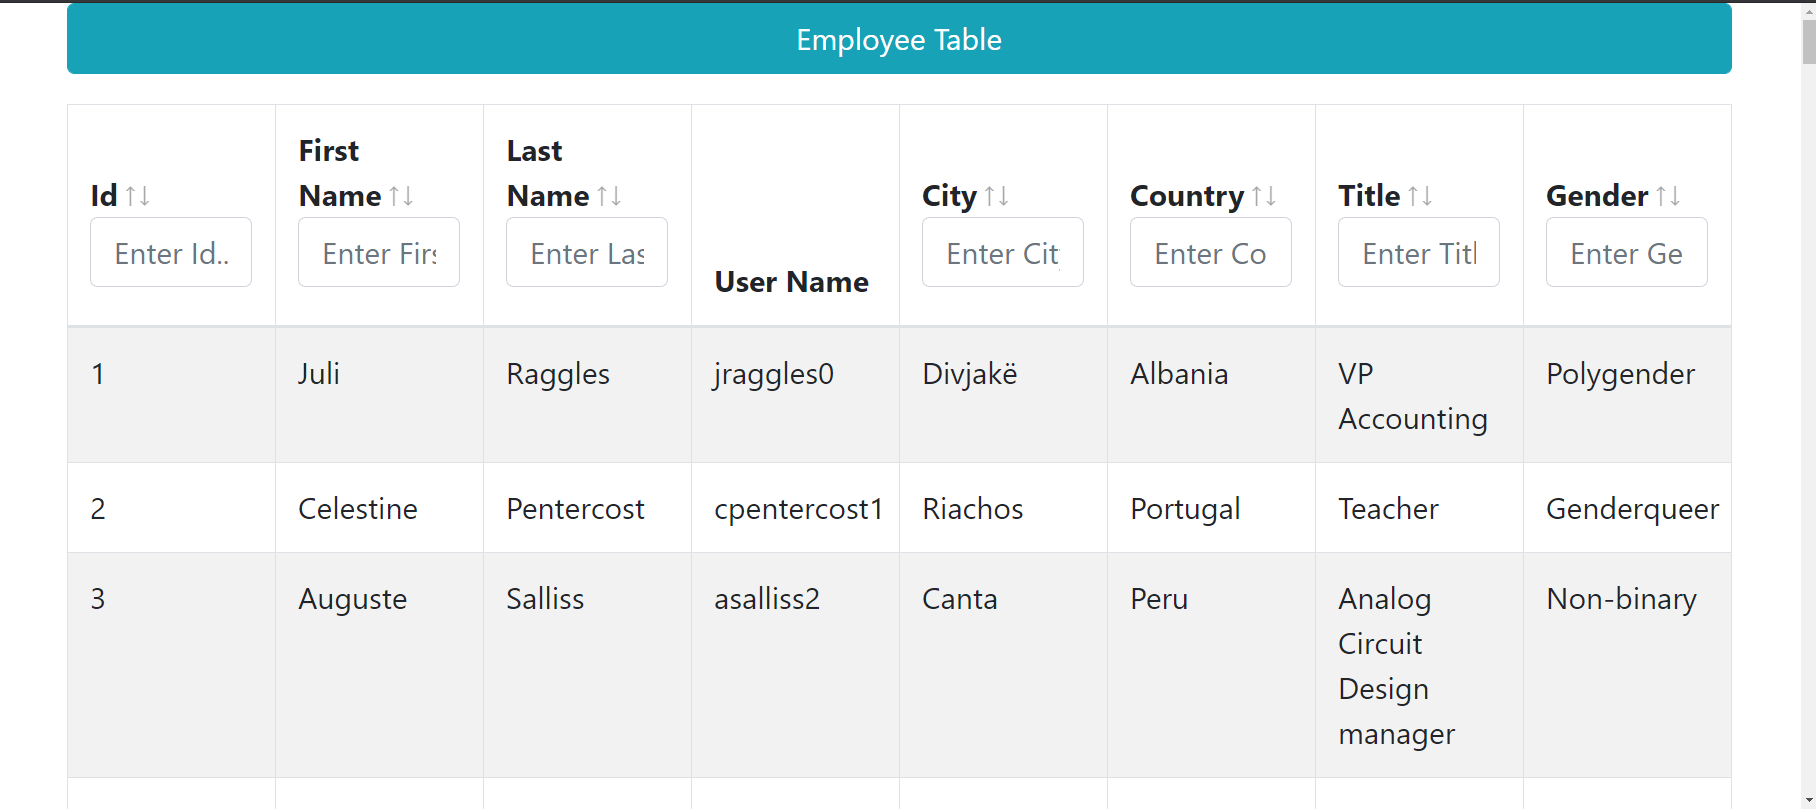
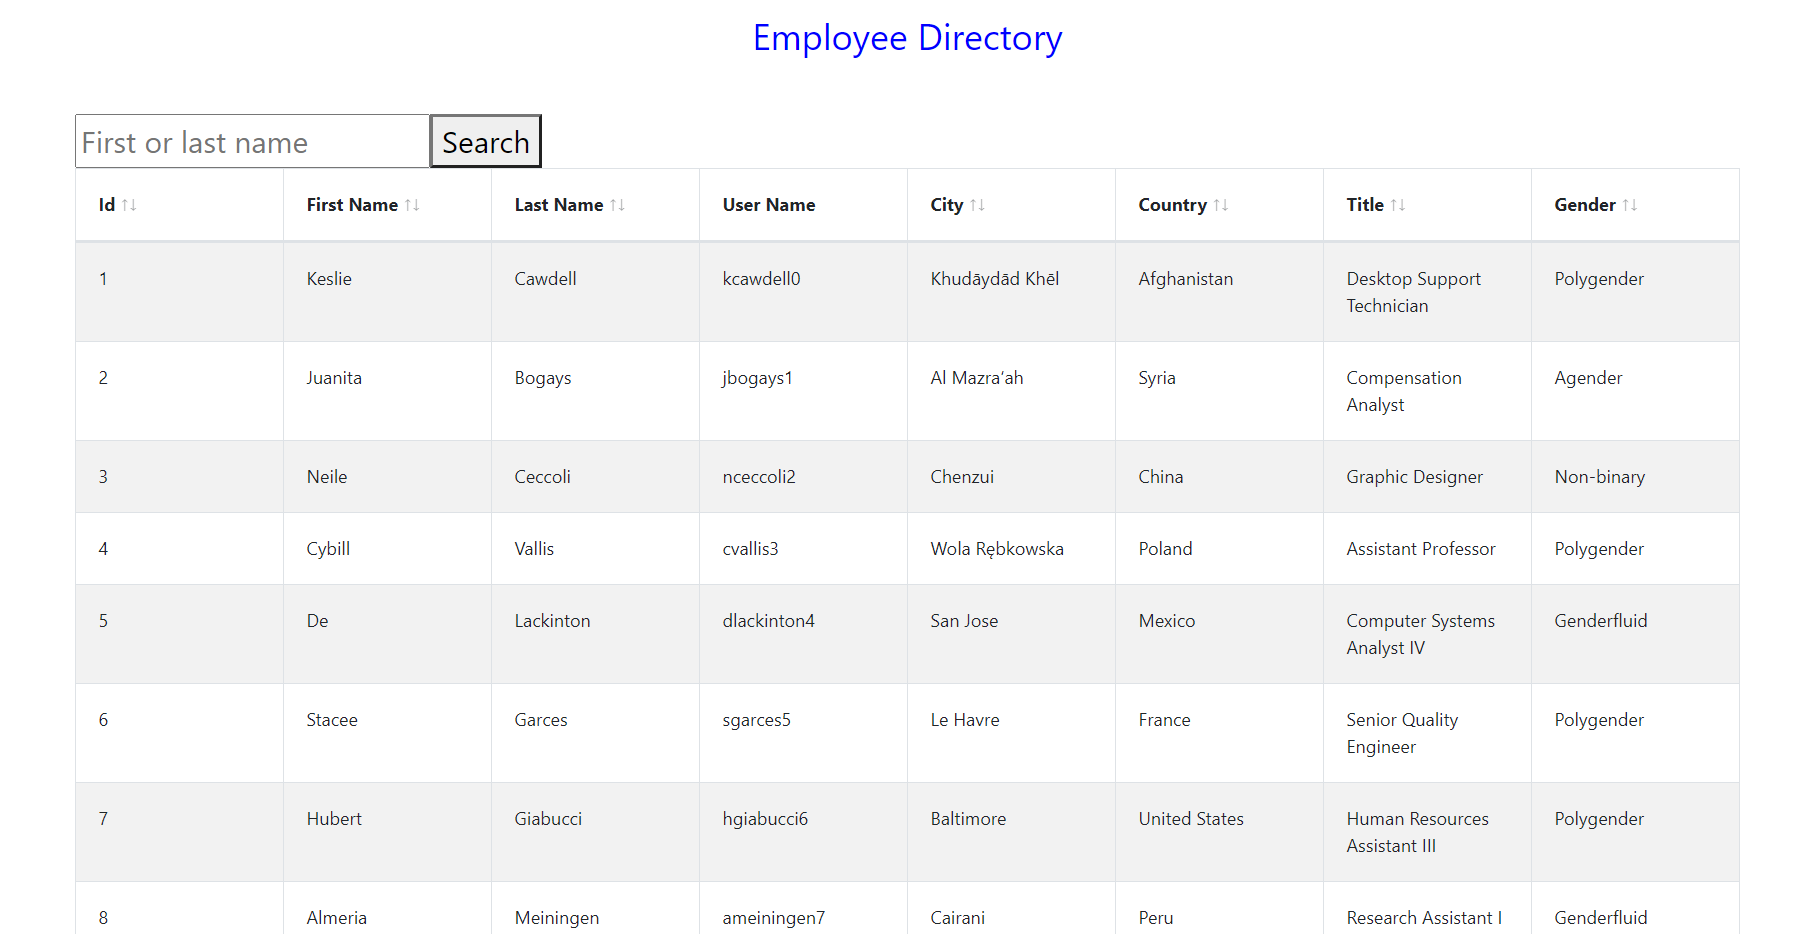
add search

diff --git a/src/components/EmployeeContainer.js b/src/components/EmployeeContainer.js
@@ -1,34 +1,32 @@
 import React, { Component } from "react";
 import BootstrapTable from 'react-bootstrap-table-next';
 import filterFactory, { textFilter } from 'react-bootstrap-table2-filter';
-import axios from "axios";
-import API from "../utils/API";
 //import 'bootstrap/dist/css/bootstrap.min.css';
 import 'react-bootstrap-table-next/dist/react-bootstrap-table2.min.css';
+import "./Employee.css";
+import API from "../utils/API";
 
-export class EmployeeContainer extends Component {
+class EmployeeContainer extends Component {
   state = {
-    getEmployeeData: "",
+    searchName: "",
     employee: [],
+    filteredEmployee: [],
     columns: [ 
       {
         dataField: 'id',
         text: 'Id',
-        filter: textFilter(),
         style: {'white-space' : 'wrap'},
         sort: true
       },
       {
         dataField: 'first_name',
         text: 'First Name',
-        filter: textFilter(),
         style: {'white-space' : 'wrap'},
         sort: true
       },
       {
         dataField: 'last_name',
         text: 'Last Name',
-        filter: textFilter(),
         style: {'white-space' : 'wrap'},
         sort: true
       },
@@ -41,28 +39,24 @@ export class EmployeeContainer extends Component {
       {
         dataField: 'city',
         text: 'City',
-        filter: textFilter(),
         style: {'white-space' : 'wrap'},
         sort: true
       },
       {
         dataField: 'country',
         text: 'Country',
-        filter: textFilter(),
         style: {'white-space' : 'wrap'},
         sort: true
       },
       {
         dataField: 'title',
         text: 'Title',
-        filter: textFilter(),
         style: {'white-space' : 'wrap'},
         sort: true
       },
       {
         dataField: 'gender',
         text: 'Gender',
-        filter: textFilter(),
         style: {'white-space' : 'wrap' },
         sort: true
       }
@@ -70,42 +64,72 @@ export class EmployeeContainer extends Component {
   
   };
 
-  componentDidMount() {
-    this.getEmployeeData();
+  async componentDidMount() {
+    await API.getData()
+    .then(res => {
+        this.setState({employee: JSON.parse(JSON.stringify(res.data))});
+        this.setState({filteredEmployee: JSON.parse(JSON.stringify(res.data))});
+        console.log ("got employee",this.state.employee);
+      })
+    .catch(err => console.log(err));
   }
 
-  getEmployeeData = query => {
-    API.getData()
-      .then(res => {
-        console.log("length: ", Object.keys(res.data).length);
-        console.log("res", res.data);
-        this.setState({employee: JSON.parse(JSON.stringify(res.data))})}
-        )
-      .catch(err => console.log(err));
+  handleInputChange = event => {
+    const name = event.target.name;
+    const value = event.target.value;
+    this.setState({
+      [name]: value
+    });
+    this.searchEmployee(this.state.searchName);
+  };
+
+  // When the form is submitted, search the employee table
+  handleFormSubmit = event => {
+      event.preventDefault();
+      this.searchEmployee(this.state.searchName);
+  };
+
+  searchEmployee = query => {
+    const filteredList = this.state.employee.filter((item) => {
+      let temp = item.first_name.toLowerCase() + item.last_name.toLowerCase()+item.user_name.toLowerCase();
+      return temp.indexOf(query.toLowerCase()) !== -1;
+    })
+    console.log ("filteredList ", filteredList );
+    this.setState({
+      filteredEmployee: filteredList
+    });
+
   };
 
   render() {
-    console.log ("employee data", this.state.employee);
     return (
-
-      <div className="container">  
+      <div className="container">
       <div class="row" className="hdr">
-      <div class="col-sm-12 btn btn-info"> 
-      Employee Table
-      </div>    
-      </div>    
-      <div  style={{ marginTop: 20 }}>  
+      <form class="form">
+          <input
+            value={this.state.searchName}
+            name="searchName"
+            type="text"
+            placeholder="First Name, Last Name, or User Name"
+            onChange={event => this.handleInputChange (event)}
+          />
+        <button class="searchButton" onClick={this.handleFormSubmit}>Search</button>
+      </form>
+      </div>
+      
+      <div class="row" className="body">
+      <div class = "EmployeeTable">  
       <BootstrapTable 
       bootstrap4  
       striped  
       hover  
-      keyField='id'     
-      data = { this.state.employee }
+      keyField='id'
+      data = { this.state.filteredEmployee }
       columns={ this.state.columns } 
       filter={ filterFactory() } />  
-      </div>  
       </div>
-
+      </div>
+      </div>
     );
   }
 }

diff --git a/src/App.js b/src/App.js
@@ -1,8 +1,14 @@
-import React from 'react';
+import React, { Component } from "react";
+import Header from './components/Header';
 import EmployeeContainer from './components/EmployeeContainer';
 
 function App() {
-  return <EmployeeContainer />;
+  return (
+    <div className="App">
+    <Header />
+    <EmployeeContainer />
+    </div>
+  );
 }
 
 export default App;

diff --git a/src/components/Header.js b/src/components/Header.js
@@ -1,0 +1,16 @@
+import React from "react";
+import "./Header.css";
+
+function Header() {
+    return (
+<div className = "wrapper">
+    <div className = "title">Employee Directory
+    </div>
+
+    <br></br>
+</div>
+
+    );
+}
+
+export default Header;

diff --git a/src/components/Employee.css b/src/components/Employee.css
@@ -1,0 +1,13 @@
+.form {
+    font-size: 10px;
+}
+
+.searchButton {
+    font-size: 10px;
+    margin: 4px 2px;
+}
+
+.EmployeeTable {
+    font-size: 10px;
+    margin: 5px
+}

diff --git a/src/components/Header.css b/src/components/Header.css
@@ -1,0 +1,7 @@
+.title {
+    text-align: center;
+    font-size: large;
+    color: blue;
+    margin-top: 5px;
+    margin-bottom: 5px;
+}

diff --git a/README.md b/README.md
@@ -8,6 +8,8 @@ The user will be able to view the non confidentail employee information of their
 
 The application connects to the Mockaroo api do retrieve a JSON file with 100 random employees. From there it is loaded to a table generated by Bootstrap.
 
+Even though the bootstrap provided the capability to do searches for each of the column. I found it cluncky. A search capability was created to search both the first and last name in one field. This also enable me to implemt the parent and child relationship.
+
 Budget Tracker application URL: https://cryptic-temple-31857.herokuapp.com/
 
 
